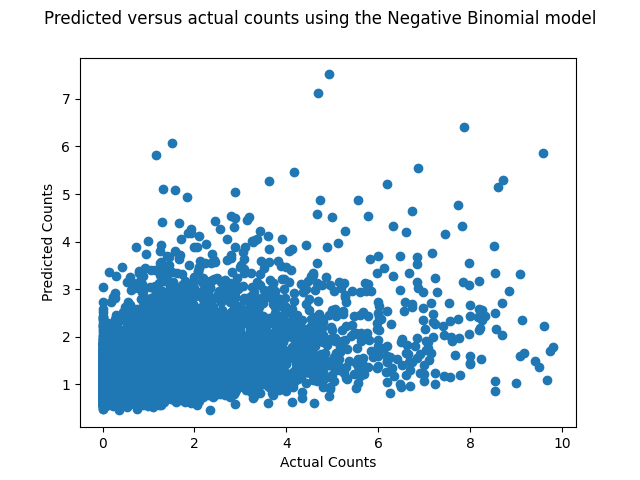
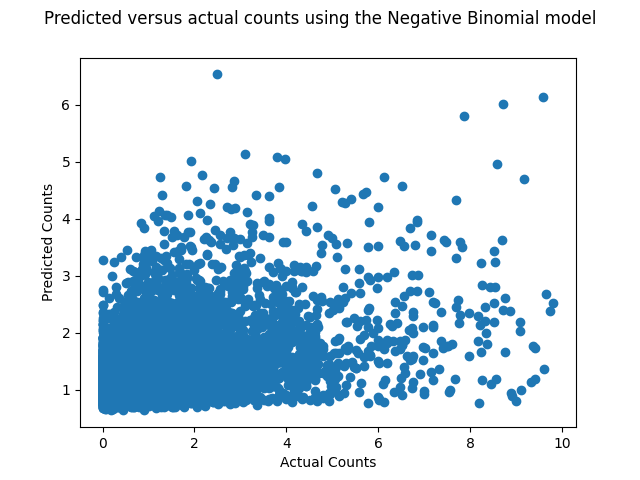
Update regression model results

diff --git a/src/5_neg-bin-reg/neg_bin_regression_subset.py b/src/5_neg-bin-reg/neg_bin_regression_subset.py
@@ -1,15 +1,15 @@
-import pandas as pd
-import numpy as np
-import statsmodels.api as sm
-import matplotlib.pyplot as plt
-from patsy import dmatrices
-from statsmodels.formula.api import glm
-from sklearn.metrics import mean_squared_error
-from sklearn.metrics import r2_score
-from math import sqrt
-from statsmodels.stats.outliers_influence import variance_inflation_factor
-from sklearn.model_selection import train_test_split
 import os
+from math import sqrt
+
+import matplotlib.pyplot as plt
+import numpy as np
+import pandas as pd
+import statsmodels.api as sm
+from patsy import dmatrices
+from sklearn.metrics import mean_squared_error, r2_score
+from sklearn.model_selection import train_test_split
+from statsmodels.formula.api import glm
+from statsmodels.stats.outliers_influence import variance_inflation_factor
 
 # get parent directory of this file
 script_dir = os.path.dirname(__file__)
@@ -23,36 +23,58 @@ with open("config/some_confounders.txt", "r") as f:
 confounders.remove("confounder")
 
 # Load the data into a DataFrame
-df = pd.read_csv('data/cohorts/cohort_MIMIC_entire_los.csv')
+df = pd.read_csv("data/cohorts/cohort_MIMIC_entire_los.csv")
 df.head()
 
 df.fillna(0, inplace=True)
 print(df.isna().sum())
 
-df['lactate_freq_normalized']=df['lactate_freq_whole']/df['los_icu'] # move to cohort selection
-df_sub = df[df['lactate_freq_normalized']<10]
+df["lactate_freq_normalized"] = (
+    df["lactate_freq_whole"] / df["los_icu"]
+)  # move to cohort selection
+df_sub = df[df["lactate_freq_normalized"] < 10]
 
 X = df_sub[confounders]
 
-y = df_sub['lactate_freq_normalized']
+y = df_sub["lactate_freq_normalized"]
 
 
-#One-hot encoding all categorical columns
-categorical_col= ['race_group', 'anchor_year_group']
+# One-hot encoding all categorical columns
+categorical_col = ["race_group", "anchor_year_group"]
 for col in categorical_col:
     X = pd.concat([X.drop(col, axis=1), pd.get_dummies(X[col], dtype=int)], axis=1)
 
-# Removing the reference columns    
-X.drop('White', axis=1, inplace=True)
-X.drop('2008 - 2010', axis=1, inplace=True)
+# Removing the reference columns
+X.drop("White", axis=1, inplace=True)
+X.drop("2008 - 2010", axis=1, inplace=True)
 
-X_train, X_test, y_train, y_test = train_test_split(X, y, test_size=0.3, random_state=42)
+## add these lines of code
+split_index = int(len(df_sub) * 0.7)  # 80% for training, 20% for testing
 
-print('Training data set length=' + str(len(X_train)))
-print('Testing data set length=' + str(len(X_test)))
+df_train = df_sub[:split_index]
+df_test = df_sub[split_index:]
+print("Training data set length=" + str(len(df_train)))
+print("Testing data set length=" + str(len(df_test)))
+
+
+expr = "lactate_freq_normalized ~ major_surgery + admission_age + SOFA + sex_female"
+# ask about asthma, confirm insulin, and major_surgery
+
+y_train, X_train = dmatrices(expr, df_train, return_type="dataframe")
+y_test, X_test = dmatrices(expr, df_test, return_type="dataframe")
+## add these lines of code
+
+# X_train, X_test, y_train, y_test = train_test_split(
+#     X, y, test_size=0.3, random_state=42
+# )
+
+print("Training data set length=" + str(len(X_train)))
+print("Testing data set length=" + str(len(X_test)))
 
 # Creating the Negative Binomial model
-nb_training_results = sm.GLM(y_train, X_train, family = sm.families.NegativeBinomial(alpha = 1)).fit()
+nb_training_results = sm.GLM(
+    y_train, X_train, family=sm.families.NegativeBinomial(alpha=1)
+).fit()
 
 print(nb_training_results.summary())
 
@@ -71,7 +93,7 @@ actual_counts = y_test
 
 # Calculate RMSE for the negative binomial model
 rmse = np.sqrt(np.mean(np.power(predicted_counts - actual_counts, 2)))
-print('Negative Binomial RMSE=', rmse)
+print("Negative Binomial RMSE=", rmse)
 
 # Calculate R-squared for count data models
 total_var = np.sum(np.power(actual_counts - np.mean(actual_counts), 2))
@@ -80,41 +102,43 @@ r2_count = 1 - (deviance / total_var)
 print("R-squared (Count Data Models):", r2_count)
 
 
-#Accuracy of the test set
-print("R-square of train set: ", round(r2_score(y_test, predicted_counts)*100, 2), "%")
+# Accuracy of the test set
+print(
+    "R-square of train set: ", round(r2_score(y_test, predicted_counts) * 100, 2), "%"
+)
 
 # Creating and plotting the graph
 fig1 = plt.figure()
-fig1.suptitle('Predicted versus actual counts using the Negative Binomial model')
+fig1.suptitle("Predicted versus actual counts using the Negative Binomial model")
 plt.scatter(actual_counts, predicted_counts)
-plt.xlabel('Actual Counts')
-plt.ylabel('Predicted Counts')
-#plt.ylim(0,10)
-#plt.xlim(0,10)
+plt.xlabel("Actual Counts")
+plt.ylabel("Predicted Counts")
+# plt.ylim(0,10)
+# plt.xlim(0,10)
 plt.show()
 
-fig1.savefig(os.path.join(root_dir, 'results/neg_bin_reg', 'neg_bin_plot1_subset.png'))
+fig1.savefig(os.path.join(root_dir, "results/neg_bin_reg", "neg_bin_plot1_subset.png"))
 
 # Assuming you have the results from nb_training_results.summary2()
 # Replace the following line with the actual summary results from your model
 summary_table = nb_training_results.summary2().tables[1]
 
 # Extract the CI columns from the summary table and create a copy
-coef_table = summary_table[['[0.025', '0.975]']].copy()
+coef_table = summary_table[["[0.025", "0.975]"]].copy()
 
 # Exponentiate the CI values using np.exp()
-LCI_exp = np.exp(coef_table['[0.025'])
-UCI_exp = np.exp(coef_table['0.975]'])
+LCI_exp = np.exp(coef_table["[0.025"])
+UCI_exp = np.exp(coef_table["0.975]"])
 
 # Add the exponentiated CI values to the DataFrame as new columns
-coef_table['Lower_CI_exp'] = LCI_exp
-coef_table['Upper_CI_exp'] = UCI_exp
+coef_table["Lower_CI_exp"] = LCI_exp
+coef_table["Upper_CI_exp"] = UCI_exp
 
-#Inserting exponentiating coefficients
-coef_table.insert(0, 'IRR', coef_exp)
+# Inserting exponentiating coefficients
+coef_table.insert(0, "IRR", coef_exp)
 
 # Drop the original non-exponentiated CI columns
-coef_table.drop(columns=['[0.025', '0.975]'], inplace=True)
+coef_table.drop(columns=["[0.025", "0.975]"], inplace=True)
 
 # Round the values in the DataFrame to a specified number of decimal places (e.g., 5)
 coef_table = coef_table.round(2)
@@ -125,42 +149,58 @@ coef_table.reset_index(inplace=True)
 print(coef_table)
 
 # Download as a CSV file
-coef_table.to_csv('results/neg_bin_reg/negbin_exponentiated_CI_results_subset.csv', index=False)
+coef_table.to_csv(
+    "results/neg_bin_reg/negbin_exponentiated_CI_results_subset.csv", index=False
+)
 
 # Assuming you have the DataFrame 'coef_table' with columns: 'IRR', 'Lower_CI_exp', 'Upper_CI_exp'
-coef_table = coef_table.sort_values(by='Upper_CI_exp', ascending=True)
+coef_table = coef_table.sort_values(by="Upper_CI_exp", ascending=True)
 
-fig2, ax2 = plt.subplots(figsize=(10, len(coef_table) * 0.4))  # Adjust the figure size according to your preference
+fig2, ax2 = plt.subplots(
+    figsize=(10, len(coef_table) * 0.4)
+)  # Adjust the figure size according to your preference
 fig2.subplots_adjust(left=0.2)
 
 # Calculate the errors for error bars without taking the absolute value
-lower_errors = coef_table['IRR'] - coef_table['Lower_CI_exp']
-upper_errors = coef_table['Upper_CI_exp'] - coef_table['IRR']
+lower_errors = coef_table["IRR"] - coef_table["Lower_CI_exp"]
+upper_errors = coef_table["Upper_CI_exp"] - coef_table["IRR"]
 
 # Create the forest plot with error bars
-plt.errorbar(coef_table['IRR'], coef_names, xerr=[lower_errors, upper_errors],
-             linestyle='', marker='o', markersize=5, capsize=5, color='black')
+plt.errorbar(
+    coef_table["IRR"],
+    coef_names,
+    xerr=[lower_errors, upper_errors],
+    linestyle="",
+    marker="o",
+    markersize=5,
+    capsize=5,
+    color="black",
+)
 
 # Set the y-ticks and labels
 plt.yticks(range(len(coef_table)), coef_names)
-plt.axvline(x=1, color='red', linestyle='--', label='IRR = 1')
+plt.axvline(x=1, color="red", linestyle="--", label="IRR = 1")
 
 # Set the labels for x and y axes
-plt.xlabel('IRR')
-plt.ylabel('Studies')
+plt.xlabel("IRR")
+plt.ylabel("Studies")
 plt.xlim(0, 2)
 
 # Show the plot
 plt.show()
 
-fig2.savefig(os.path.join(root_dir, 'results/neg_bin_reg', 'neg_bin_plot2_subset.png'))
+fig2.savefig(os.path.join(root_dir, "results/neg_bin_reg", "neg_bin_plot2_subset.png"))
+
 
 def calculate_vif(race_df):
     # Create a DataFrame to store the VIF values
     vif_data = pd.DataFrame()
     vif_data["Feature"] = race_df.columns
-    vif_data["VIF"] = [variance_inflation_factor(race_df.values, i) for i in range(race_df.shape[1])]
+    vif_data["VIF"] = [
+        variance_inflation_factor(race_df.values, i) for i in range(race_df.shape[1])
+    ]
     return vif_data
+
 
 # Assuming 'X_train' is a DataFrame containing the predictor variables
 vif_result = calculate_vif(X_train)
@@ -168,4 +208,4 @@ vif_result = calculate_vif(X_train)
 # Rounding all values to two decimal places
 vif_result = vif_result.round(2)
 
-vif_result.to_csv('results/neg_bin_reg/negbin_vif_result_subset.csv', index=False)
+vif_result.to_csv("results/neg_bin_reg/negbin_vif_result_subset.csv", index=False)
